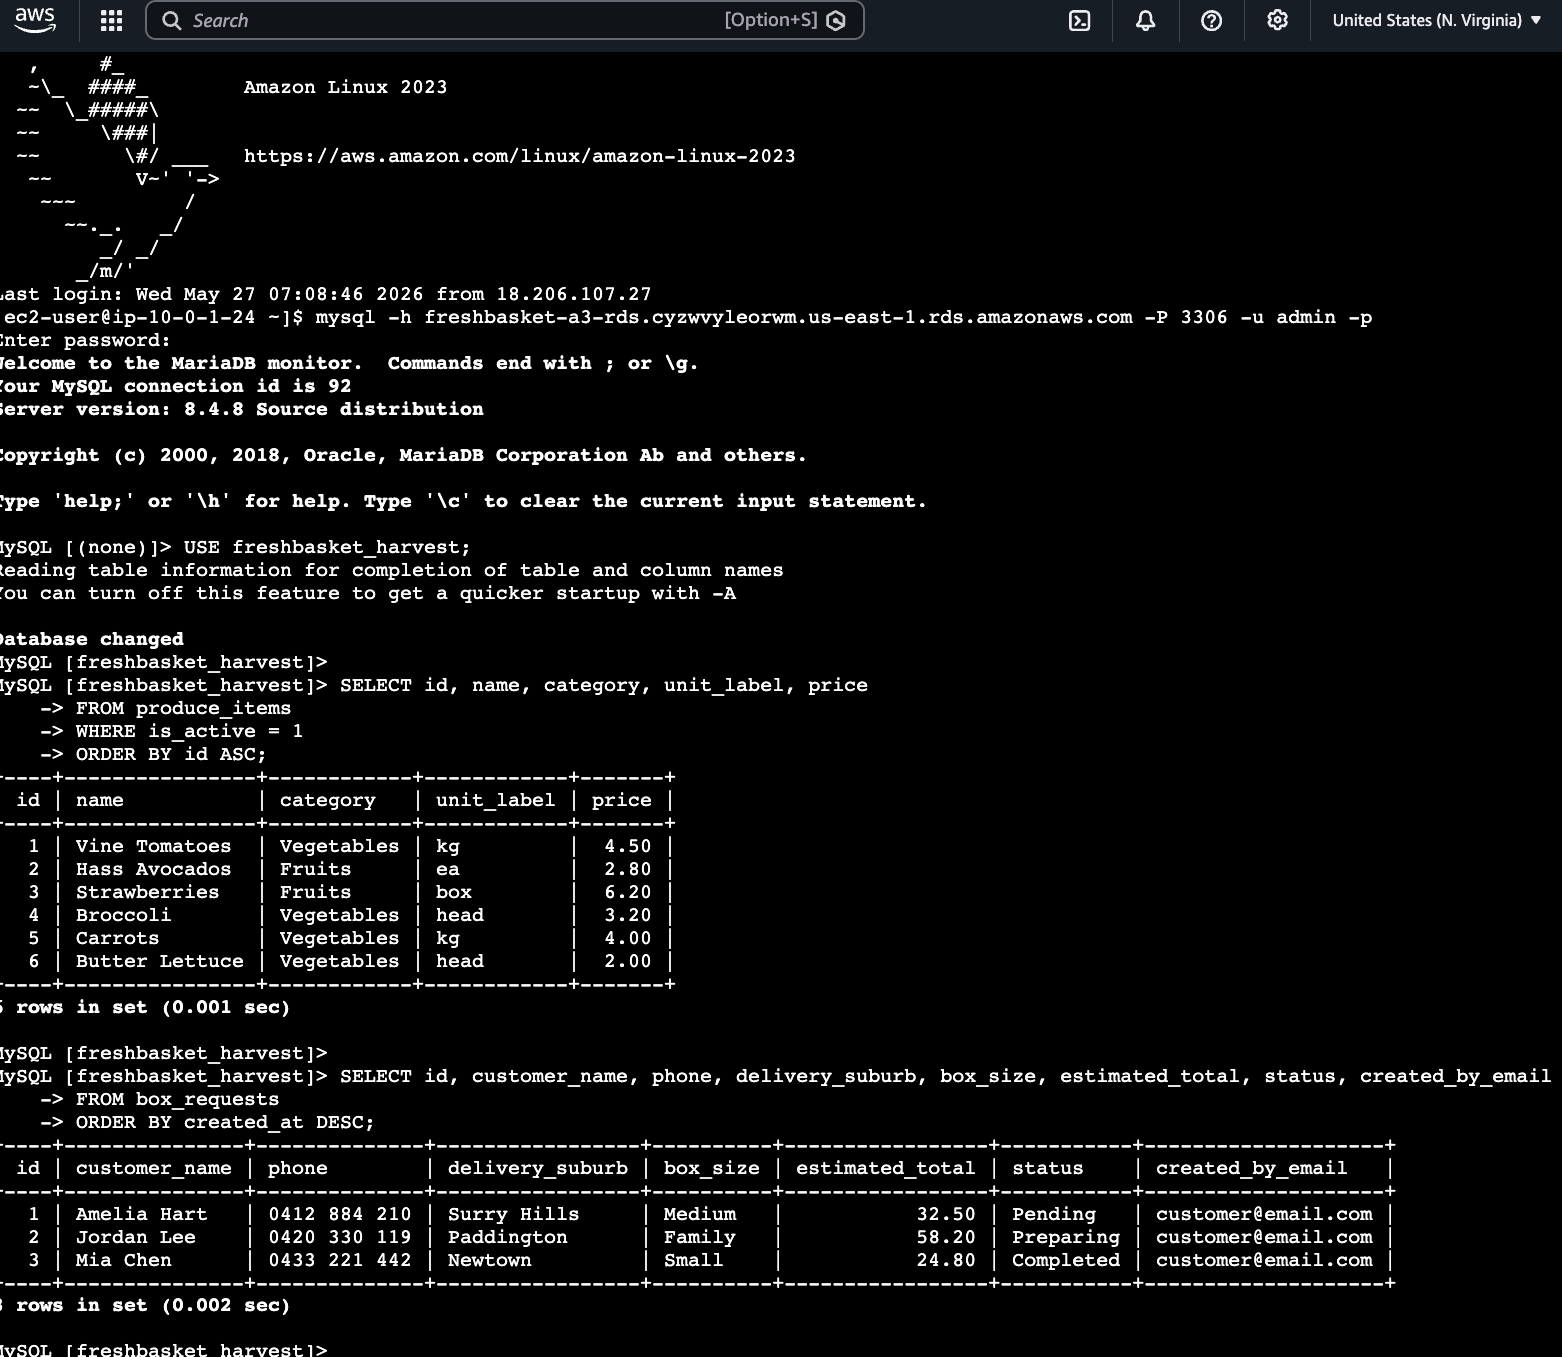
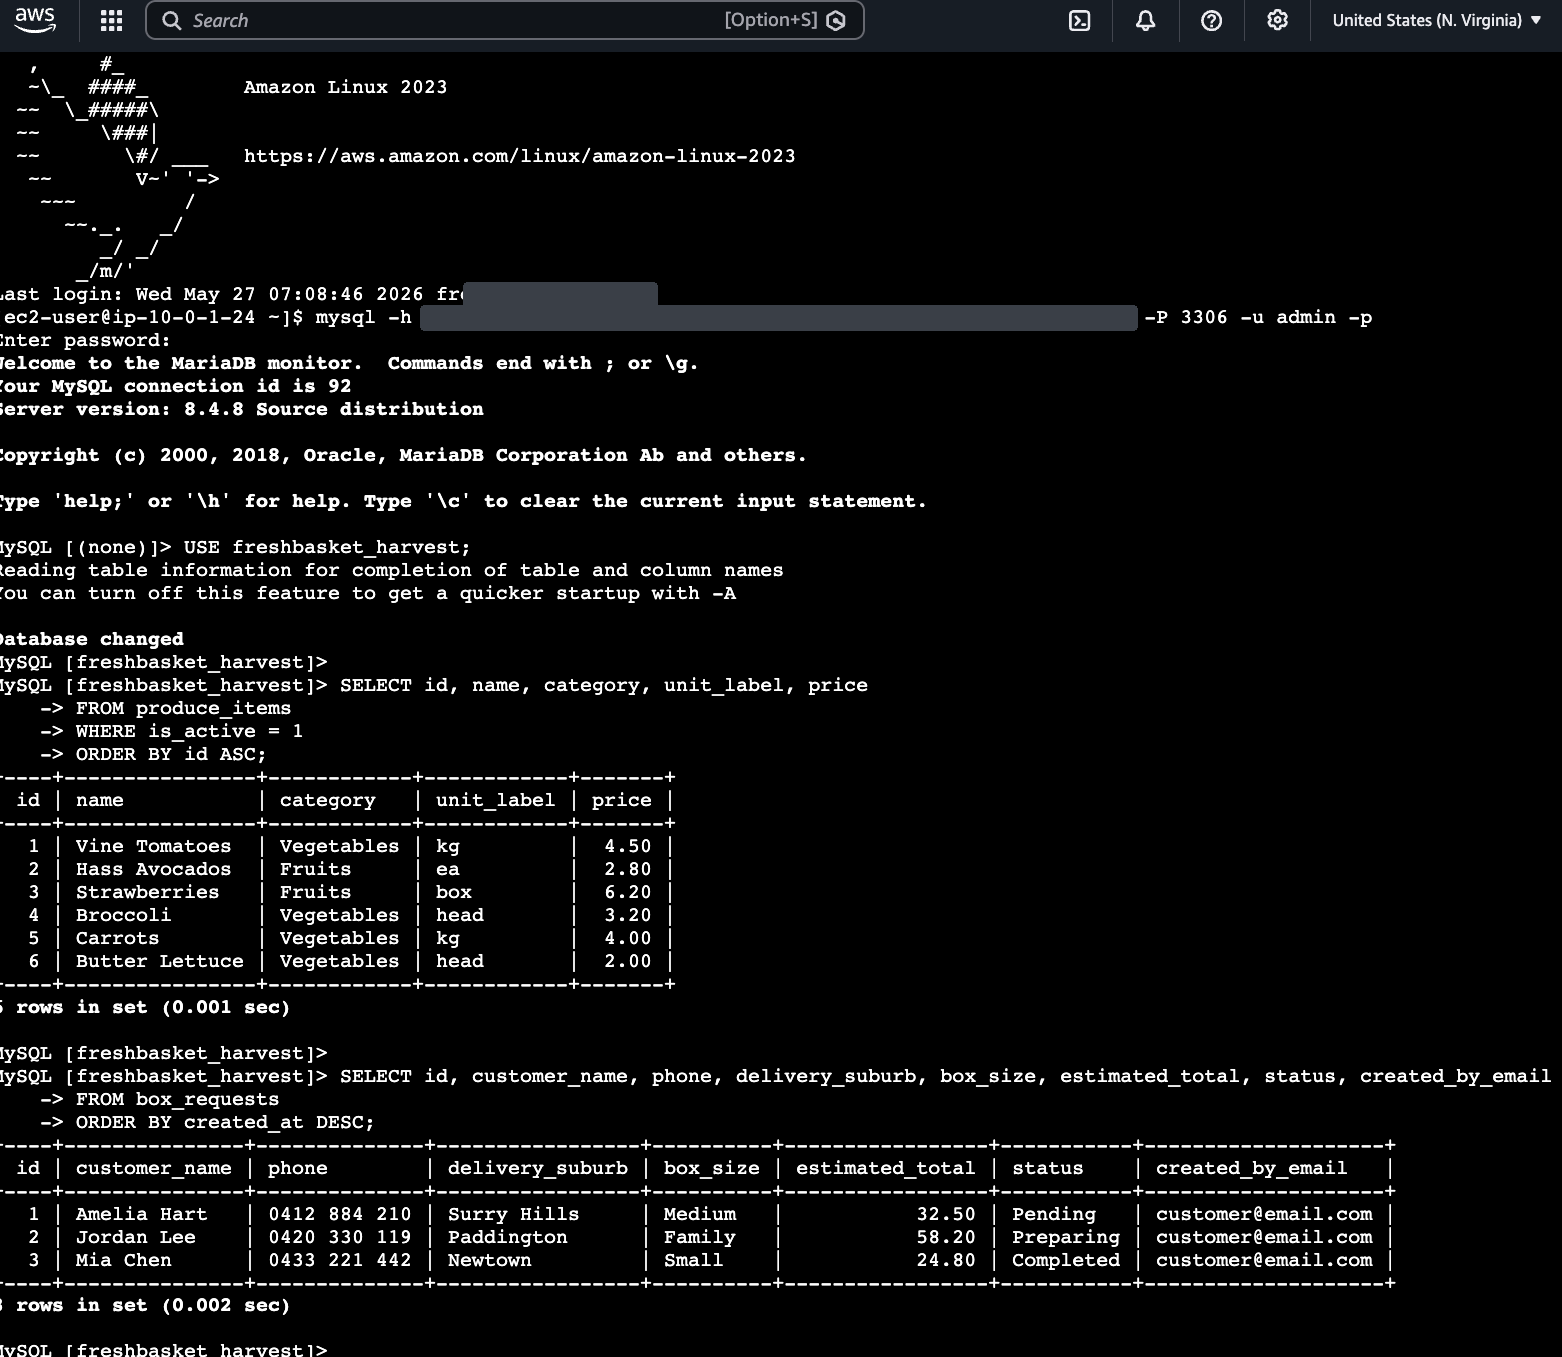
chore: redact AWS identifiers in FreshBasket screenshots
Cover account ID, ARNs, RDS endpoint, public IP, EB domain and resource IDs
(VPC, subnet, SG, AMI, route table, IGW, ACL) with solid boxes in 10 console
screenshots. Replace the stale 'redact before public deployment' TODOs.

Changed region(s): [[0.2458, 0.1857, 0.7375, 0.2476]]

diff --git a/src/data/caseStudies/freshbasket.ts b/src/data/caseStudies/freshbasket.ts
@@ -105,8 +105,8 @@ export const freshBasketDatabaseTables = [
 ];
 
 export const freshBasketNetworkingCards = [
-  // TODO before public deployment: manually blur/crop AWS account IDs,
-  // endpoints, public IPs, security group IDs, emails, and credentials in these screenshots.
+  // Screenshots are redacted (account ID, ARNs, endpoints, IPs, resource IDs).
+  // Redact any new AWS console screenshot the same way before adding it here.
   {
     title: "Custom VPC",
     body: "Hosted deployment resources inside a controlled AWS networking boundary.",
@@ -143,8 +143,8 @@ export const freshBasketOperationsCards = [
 ];
 
 export const freshBasketOperationsImages = [
-  // TODO before public deployment: manually blur/crop AWS account IDs,
-  // endpoints, public IPs, IAM details, environment values, emails, and credentials.
+  // Screenshots are redacted (account ID, ARNs, endpoints, IPs, resource IDs).
+  // Redact any new AWS console screenshot the same way before adding it here.
   {
     title: "Elastic Beanstalk Health",
     image: "/images/projects/AWS/beanstalk-health-ok.png",
@@ -164,9 +164,8 @@ export const freshBasketOperationsImages = [
 ];
 
 export const freshBasketEvidenceItems: FreshBasketEvidenceItem[] = [
-  // TODO before public deployment: manually blur/crop any sensitive
-  // identifiers, endpoints, account details, emails, credentials, public IPs,
-  // SNS ARNs, environment values, or unrelated browser tabs in these evidence images.
+  // Screenshots are redacted (account ID, ARNs, endpoints, IPs, resource IDs).
+  // Redact any new AWS console screenshot the same way before adding it here.
   {
     title: "Architecture Diagram",
     image: "/images/projects/AWS/architecture-diagram.png",
